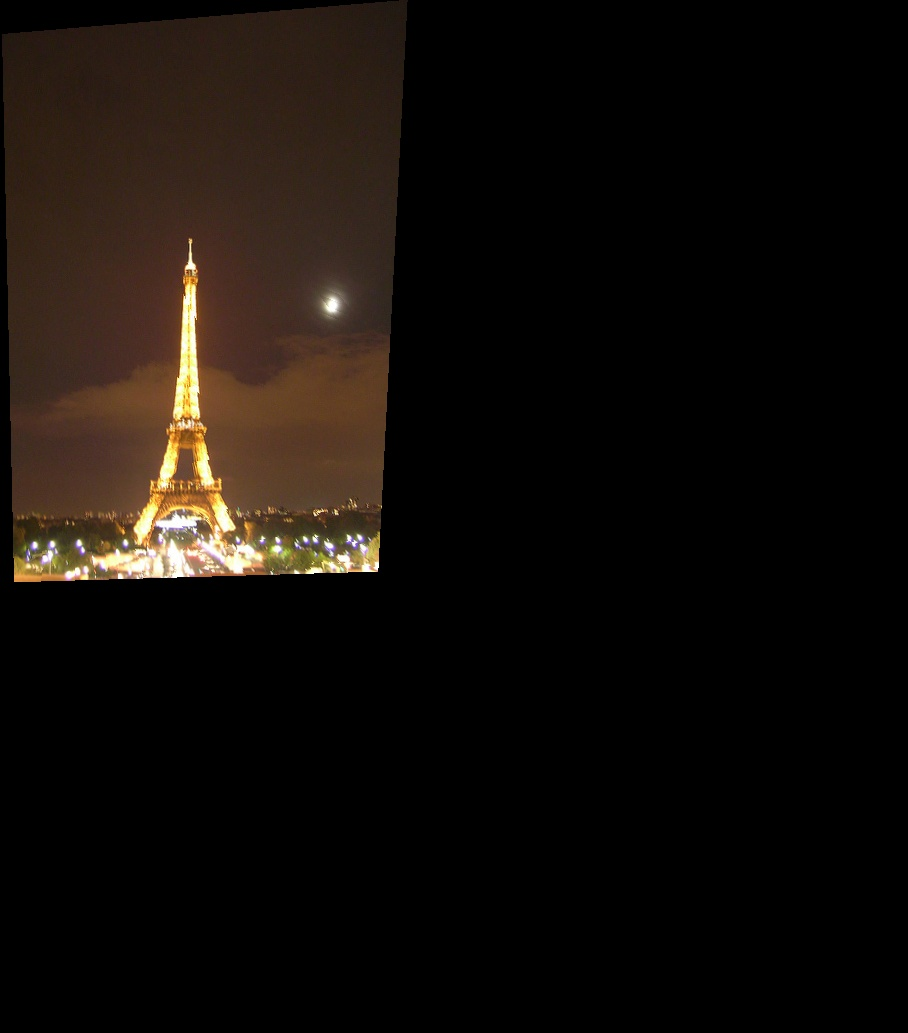
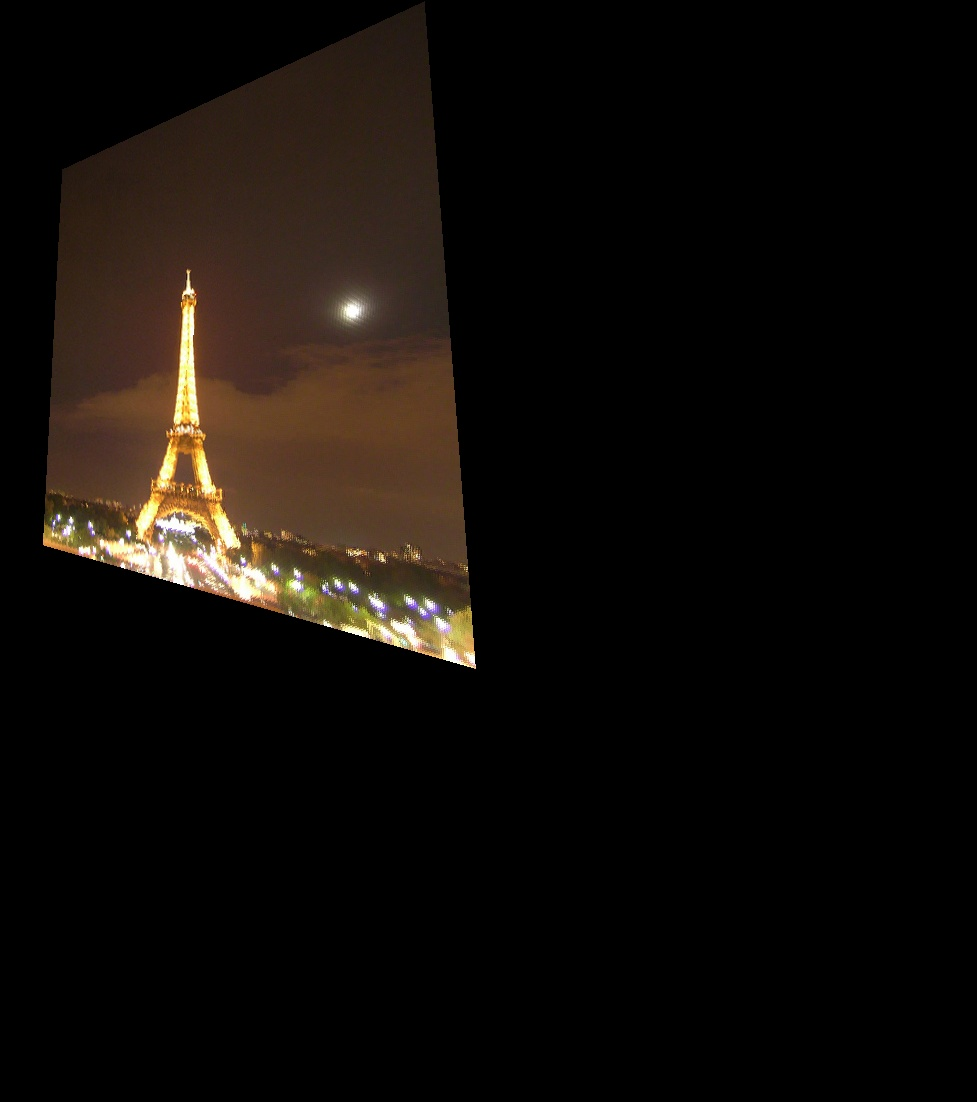
part2 color add

Changed region(s): [[0.0, 0.0, 0.4934, 0.6196], [0.3392, 0.2478, 0.4009, 0.3098], [0.2467, 0.3408, 0.3392, 0.3717]]

diff --git a/a2.py b/a2.py
@@ -11,9 +11,9 @@ import part3
 
 
 def warp(trans_matrix, img2_path, img_output_path):
-    img = cv2.imread(img2_path, cv2.IMREAD_GRAYSCALE)
+    img = cv2.imread(img2_path)
 
-    warped_img = np.zeros(img.shape)
+    warped_img = np.zeros((img.shape[0], img.shape[1], 3))
 
     # trans_matrix = np.array([[0.907, 0.258, -182], [-0.153, 1.44, 58], [-0.000306, 0.000731, 1]])
     inverse_matrix = np.linalg.inv(trans_matrix)
@@ -28,10 +28,10 @@ def warp(trans_matrix, img2_path, img_output_path):
             a = int(old_coordinate_x) + 1 - old_coordinate_x
             b = int(old_coordinate_y) + 1 - old_coordinate_y
             if (old_coordinate_y) >= warped_img.shape[1] - 1 or (old_coordinate_y) < 0:
-                warped_img[x][y] = 0
+                warped_img[x][y] = [0, 0, 0]
                 continue
             if (old_coordinate_x) >= warped_img.shape[0] - 1 or (old_coordinate_x) < 0:
-                warped_img[x][y] = 0
+                warped_img[x][y] = [0, 0, 0]
                 continue
 
             left_top = img[int(old_coordinate_x)][int(old_coordinate_y)]
@@ -127,5 +127,5 @@ if __name__ == '__main__':
             Z = np.append(Z, [1], axis=0)
 
             trans_matrix = Z.reshape((3, 3))
-
+        print("warping image...")
         warp(trans_matrix, img2_path, img_output_path)

diff --git a/part2.py b/part2.py
@@ -5,10 +5,9 @@ import sys
 import numpy as np
 
 def warp(trans_matrix, img2_path, img_output_path):
+	img = cv2.imread(img2_path)
 
-	img = cv2.imread(img2_path, cv2.IMREAD_GRAYSCALE)
-
-	warped_img = np.zeros(img.shape)
+	warped_img = np.zeros((img.shape[0], img.shape[1], 3))
 
 	#trans_matrix = np.array([[0.907, 0.258, -182], [-0.153, 1.44, 58], [-0.000306, 0.000731, 1]])
 	inverse_matrix = np.linalg.inv(trans_matrix)
@@ -23,10 +22,10 @@ def warp(trans_matrix, img2_path, img_output_path):
 			a = int(old_coordinate_x)+1-old_coordinate_x
 			b = int(old_coordinate_y)+1-old_coordinate_y
 			if (old_coordinate_y) >= warped_img.shape[1] - 1 or (old_coordinate_y) < 0:
-				warped_img[x][y] = 0
+				warped_img[x][y] = [0, 0, 0]
 				continue
 			if (old_coordinate_x) >= warped_img.shape[0] - 1 or (old_coordinate_x) < 0:
-				warped_img[x][y] = 0
+				warped_img[x][y] = [0, 0, 0]
 				continue
 
 			left_top = img[int(old_coordinate_x)][int(old_coordinate_y)]
@@ -133,28 +132,5 @@ if __name__ == '__main__':
 		Z = np.append(Z, [1], axis=0)
 
 		trans_matrix = Z.reshape((3,3))
-
+	print("warping image...")
 	warp(trans_matrix, img2_path, img_output_path)
-
-		
-
-
-
-
-
-		
-	
-
-
-
-
-
-
-
-
-
-
-
-
-
-
